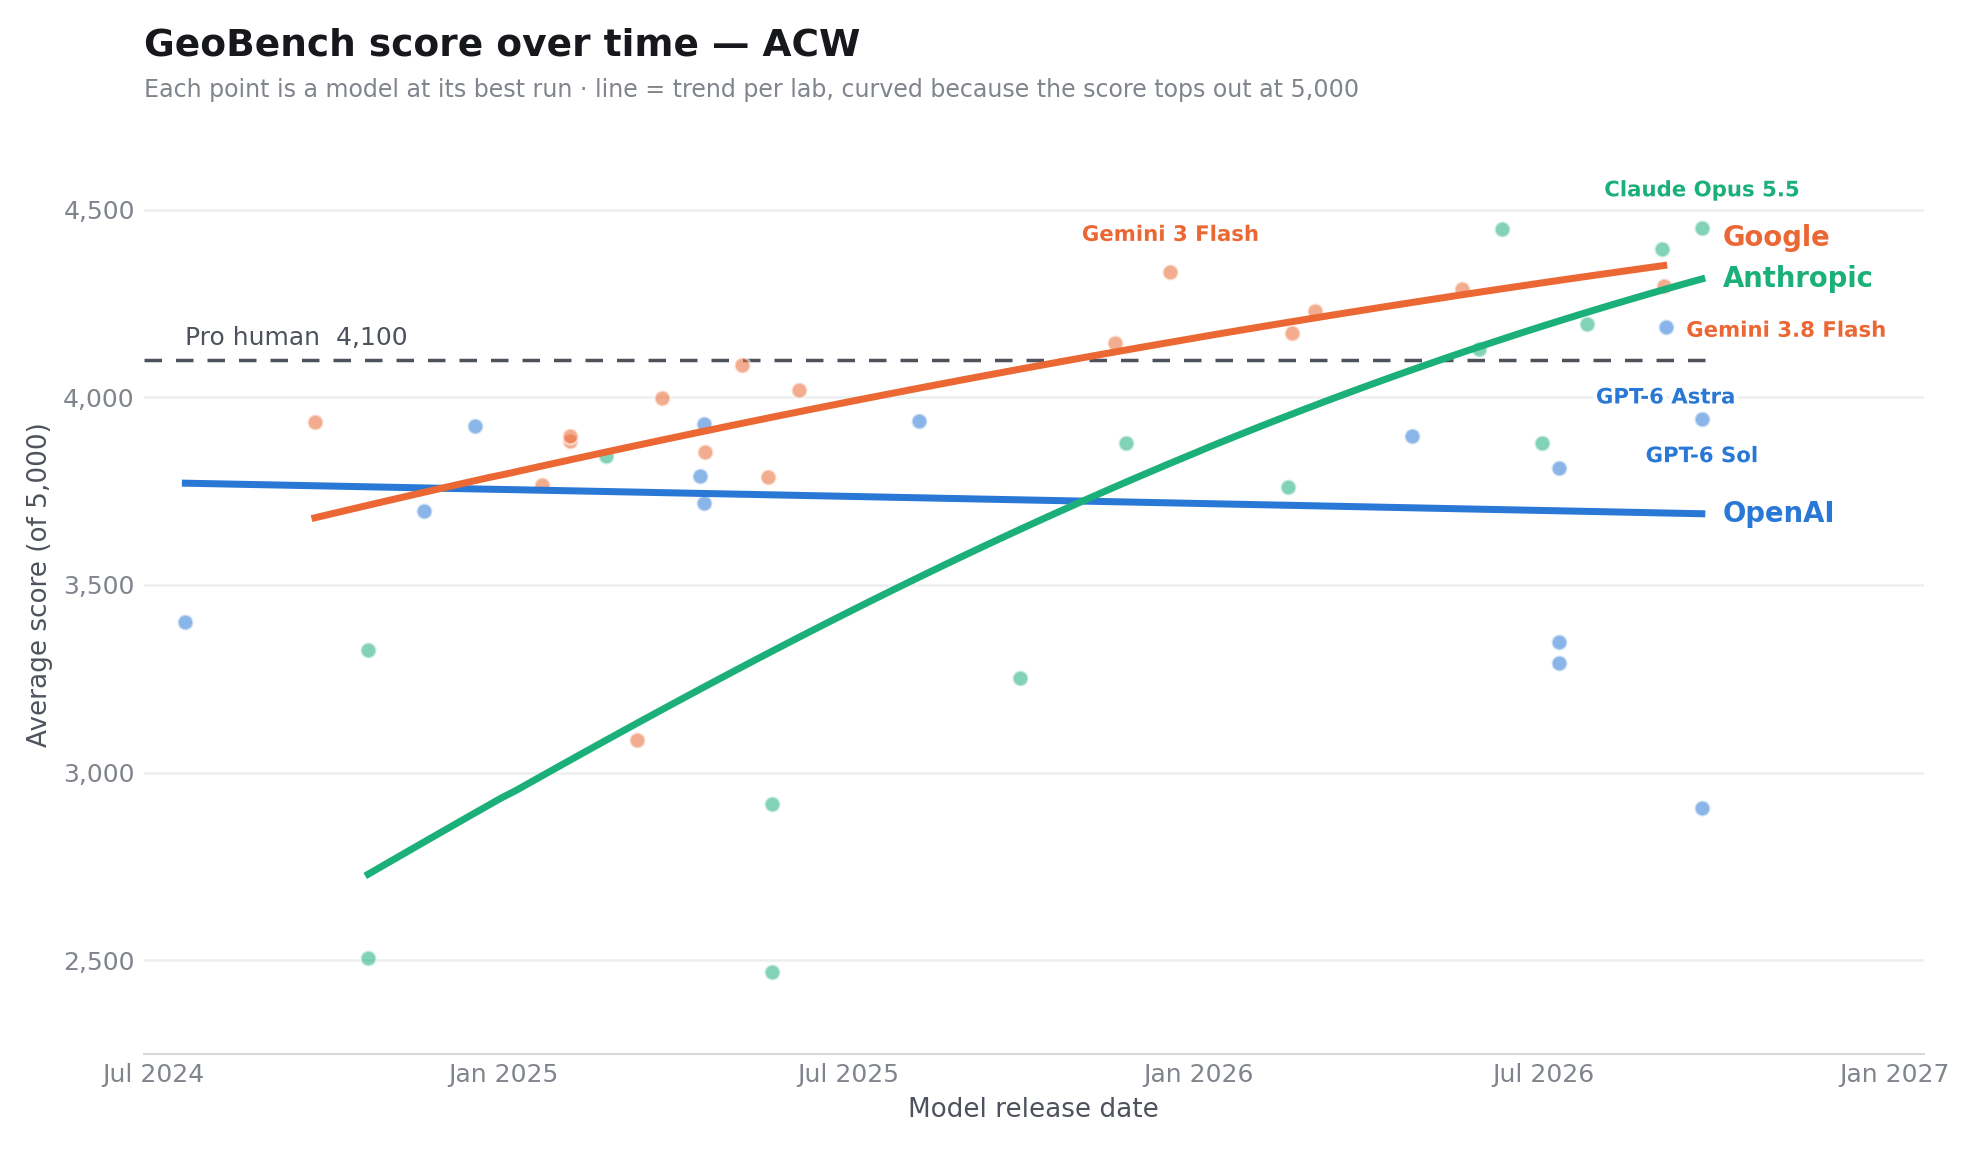
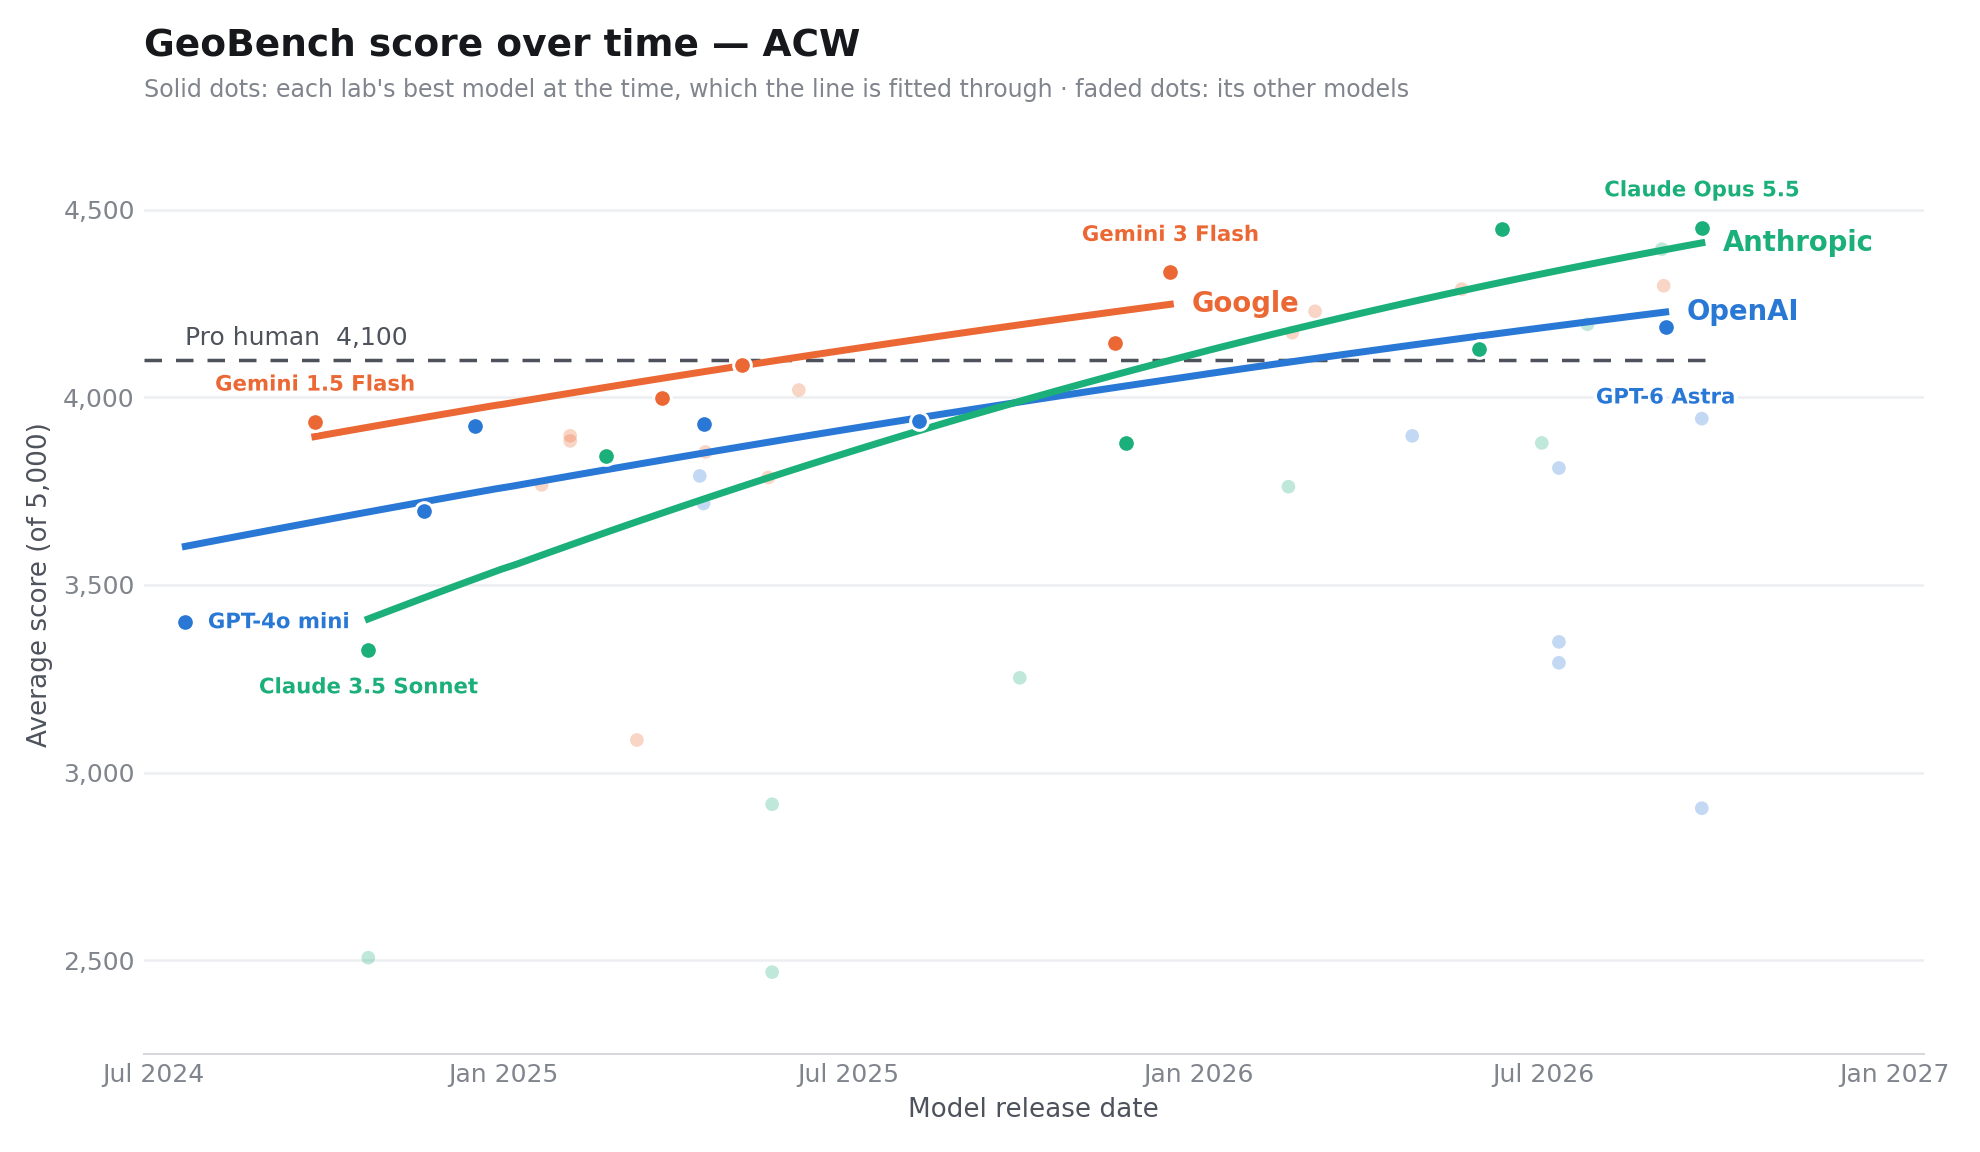
feat: fit each lab's trend through its best-so-far models only
The line for a lab was fitted through every model it shipped, so small and
cheap models -- Haiku, Flash-Lite, GPT-4o mini, GPT-6 Luna at ~2,900 --
dragged it down; OpenAI's ACW trend came out flat. Each line is now fitted
only through the lab's best-so-far models (each one that beat everything the
same lab had released before it). Every model still appears: those solid,
the rest faded and kept out of the fit.

A lab whose best model is older now ends its line there, with its name at
the line's end rather than at the right edge -- on ACW no Google model has
beaten Gemini 3 Flash (Dec 2025), so that is where its line stops.

The first and latest best-so-far model of each lab are named.

Claude-Session: https://claude.ai/code/session_016J11et8NqpuJ6SN8puCjmm

diff --git a/visualizations/timeline/plot_trends.py b/visualizations/timeline/plot_trends.py
@@ -8,7 +8,9 @@ tuned-prompt runs are left out so every lab is measured on the same setup. The
 trend line is fitted in logit space against the 5,000-point ceiling -- the
 sigmoid shape Epoch's ECI model assumes -- because a straight line on a bounded
 score eventually predicts the impossible. Each line spans only the dates that
-lab has actually shipped in. Each lab's best and latest model are named.
+lab has actually shipped in. Every model is drawn, but each line is fitted only through its lab's best-so-far
+models -- one that didn't beat the lab's previous best (a small or cheap variant)
+is shown faded and kept out of the fit. The first and latest best-so-far are named.
 
     python plot_trends.py                # both image sets
     python plot_trends.py --dataset acw
@@ -71,12 +73,24 @@ def best_scores(ds: dict, lab: str) -> list[tuple[float, float, str]]:
     return sorted(out)
 
 
-def notable(series: dict[str, list[tuple[float, float, str]]]) -> set[str]:
-    """Models worth naming: each lab's best model and its latest one."""
+def lab_frontier(pts: list[tuple[float, float, str]]) -> list[tuple[float, float, str]]:
+    """The lab's best-so-far models: each one that beat everything the same lab
+    had released before it. A lab's small, cheap models never make this list,
+    so they don't drag its trend down."""
+    out, best = [], -math.inf
+    for x, y, name in sorted(pts, key=lambda p: (p[0], -p[1])):
+        if y > best:
+            out.append((x, y, name))
+            best = y
+    return out
+
+
+def notable(frontiers: dict[str, list[tuple[float, float, str]]]) -> set[str]:
+    """Models worth naming: the first and latest model on each lab's frontier."""
     names = set()
-    for pts in series.values():
-        names.add(max(pts, key=lambda p: p[1])[2])
-        names.add(pts[-1][2])
+    for fr in frontiers.values():
+        names.add(fr[0][2])
+        names.add(fr[-1][2])
     return names
 
 
@@ -111,24 +125,33 @@ def place_labels(ax, fig, items, avoid, obstacles) -> None:
 def plot(ds: dict, out: Path) -> Path:
     fig, ax = plt.subplots(figsize=(11, 6.4))
     series = {lab: best_scores(ds, lab) for lab in LABS}
-    series = {lab: pts for lab, pts in series.items() if len(pts) >= 3}
+    series = {lab: pts for lab, pts in series.items() if len(lab_frontier(pts)) >= 2}
     all_x = [p[0] for pts in series.values() for p in pts]
     all_y = [p[1] for pts in series.values() for p in pts]
     x_min, x_max = min(all_x), max(all_x)
     ends = []
     lines = []      # (dates, values) of everything a label must not sit on
 
+    frontiers = {lab: lab_frontier(pts) for lab, pts in series.items()}
     for lab, pts in series.items():
         col = LABS[lab]
-        xs, ys, _ = zip(*pts)
+        fr = frontiers[lab]
+        on_fr = {p[2] for p in fr}
+
+        # the rest of the lab's line-up stays on the plot, but not in the line
+        rest = [p for p in pts if p[2] not in on_fr]
+        ax.scatter([to_date(p[0]) for p in rest], [p[1] for p in rest], s=30, color=col,
+                   alpha=0.28, edgecolor="none", zorder=3)
+
+        xs, ys, _ = zip(*fr)
         a, b = logistic_fit(xs, ys)
         grid = [xs[0] + (xs[-1] - xs[0]) * i / 100 for i in range(101)]
         curve = [CEILING / (1 + math.exp(-(a + b * g))) for g in grid]
 
-        ax.scatter([to_date(x) for x in xs], ys, s=40, color=col, alpha=0.55,
-                   edgecolor="white", linewidth=1, zorder=3)
+        ax.scatter([to_date(x) for x in xs], ys, s=50, color=col,
+                   edgecolor="white", linewidth=1.2, zorder=5)
         ax.plot([to_date(g) for g in grid], curve, color=col, linewidth=2.8, zorder=4)
-        ends.append([curve[-1], lab, col])
+        ends.append([curve[-1], lab, col, grid[-1]])
         lines.append(([to_date(g) for g in grid], curve))
 
     # pro human baseline
@@ -143,12 +166,16 @@ def plot(ds: dict, out: Path) -> Path:
         avoid.append(ax.text(to_date(x_min), human + 25, f"Pro human  {human:,}",
                              color=INK_2, fontsize=10, ha="left", va="bottom"))
 
-    # lab names at the end of each line, spread apart if they crowd
+    # each lab's name sits at the end of its own line -- a lab whose best model is
+    # older (no later model beat it) ends earlier. Names that would land on top
+    # of each other are spread apart vertically.
     ends.sort()
     for i in range(1, len(ends)):
-        ends[i][0] = max(ends[i][0], ends[i - 1][0] + 110)
-    for y, lab, col in ends:
-        avoid.append(ax.text(to_date(x_max + 0.03), y, lab, color=col, fontsize=11,
+        for j in range(i):
+            if abs(ends[i][3] - ends[j][3]) < 0.3:
+                ends[i][0] = max(ends[i][0], ends[j][0] + 110)
+    for y, lab, col, x_end in ends:
+        avoid.append(ax.text(to_date(x_end + 0.03), y, lab, color=col, fontsize=11,
                              fontweight="bold", va="center", ha="left"))
 
     ax.set_xlim(to_date(x_min - 0.06), to_date(x_max + 0.32))
@@ -167,15 +194,15 @@ def plot(ds: dict, out: Path) -> Path:
     ax.set_xlabel("Model release date", color=INK_2, fontsize=10.5)
     ax.set_title(f"GeoBench score over time — {ds['label'].split(' — ')[0]}",
                  loc="left", fontsize=15, fontweight="bold", color=INK, pad=24)
-    ax.text(0, 1.015, "Each point is a model at its best run · line = trend per lab, "
-            "curved because the score tops out at 5,000",
+    ax.text(0, 1.015, "Solid dots: each lab's best model at the time, which the line is "
+            "fitted through · faded dots: its other models",
             transform=ax.transAxes, fontsize=9.5, color=INK_3, va="bottom")
 
     fig.tight_layout()
     fig.canvas.draw()
-    named = notable(series)
-    items = [(to_date(x), y, name, LABS[lab]) for lab, pts in series.items()
-             for x, y, name in pts if name in named]
+    named = notable(frontiers)
+    items = [(to_date(x), y, name, LABS[lab]) for lab, fr in frontiers.items()
+             for x, y, name in fr if name in named]
     obstacles = []
     for dates, vals in lines:
         for d, v in zip(dates, vals):
